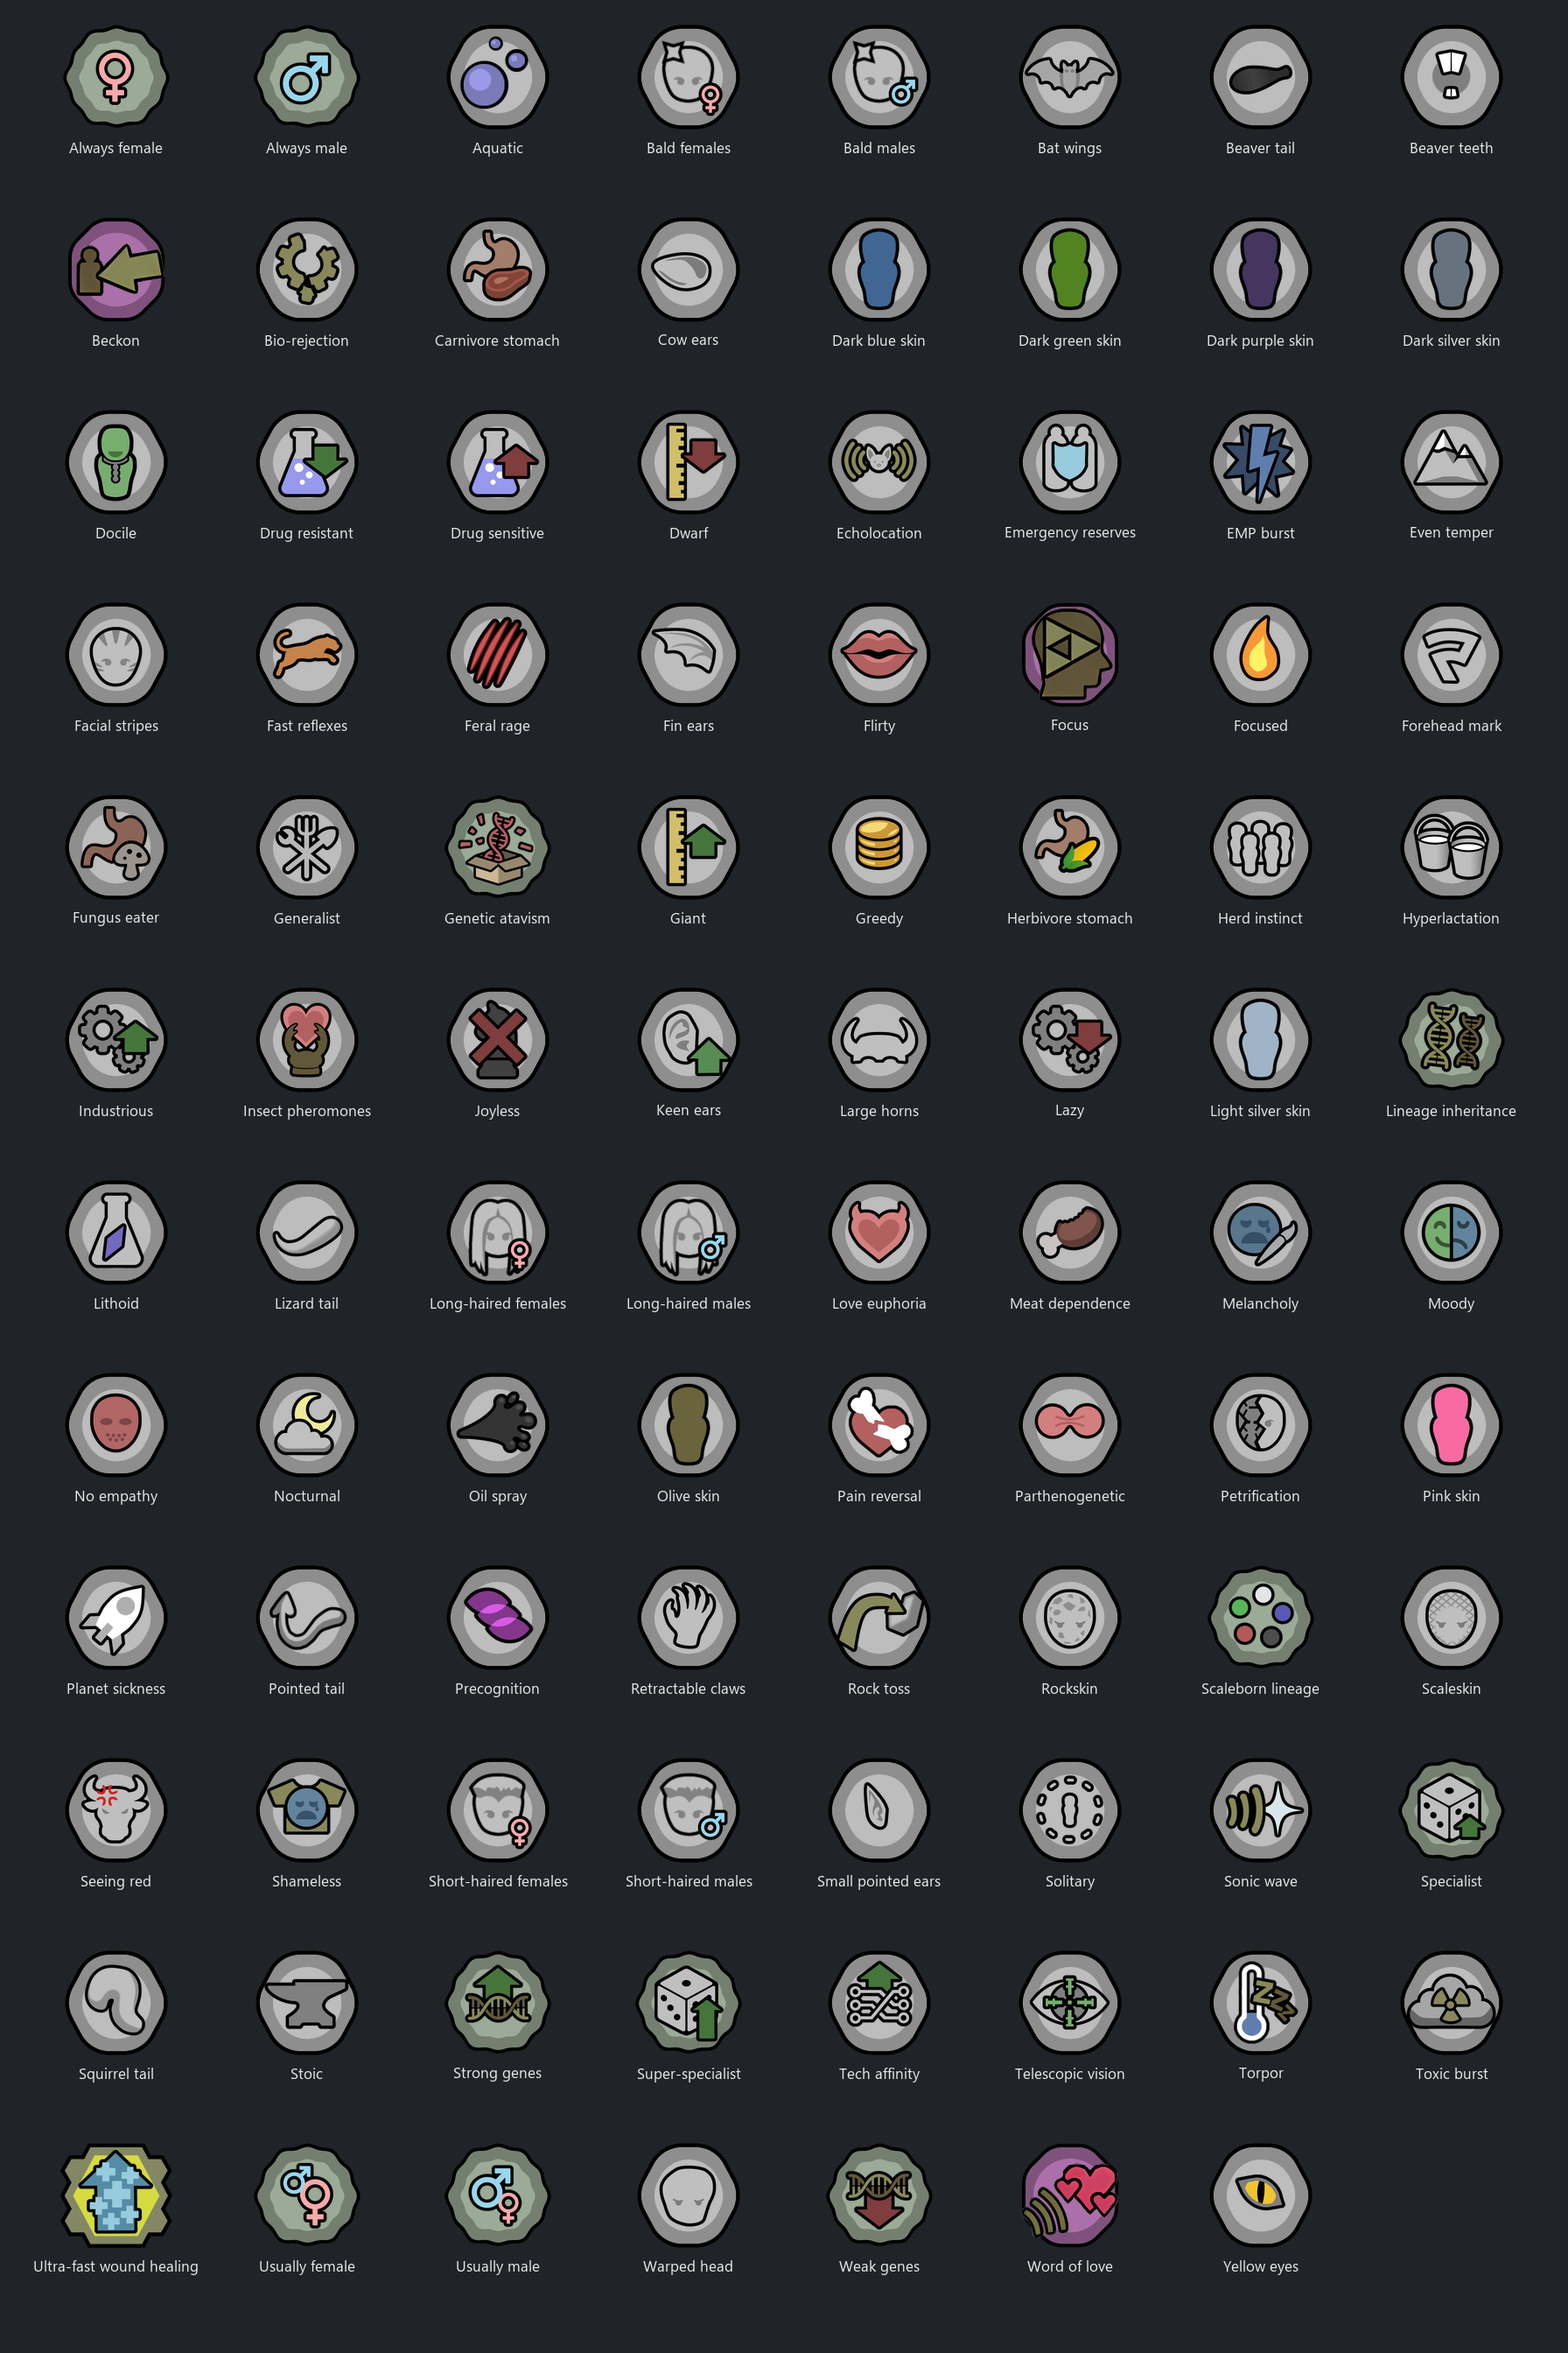
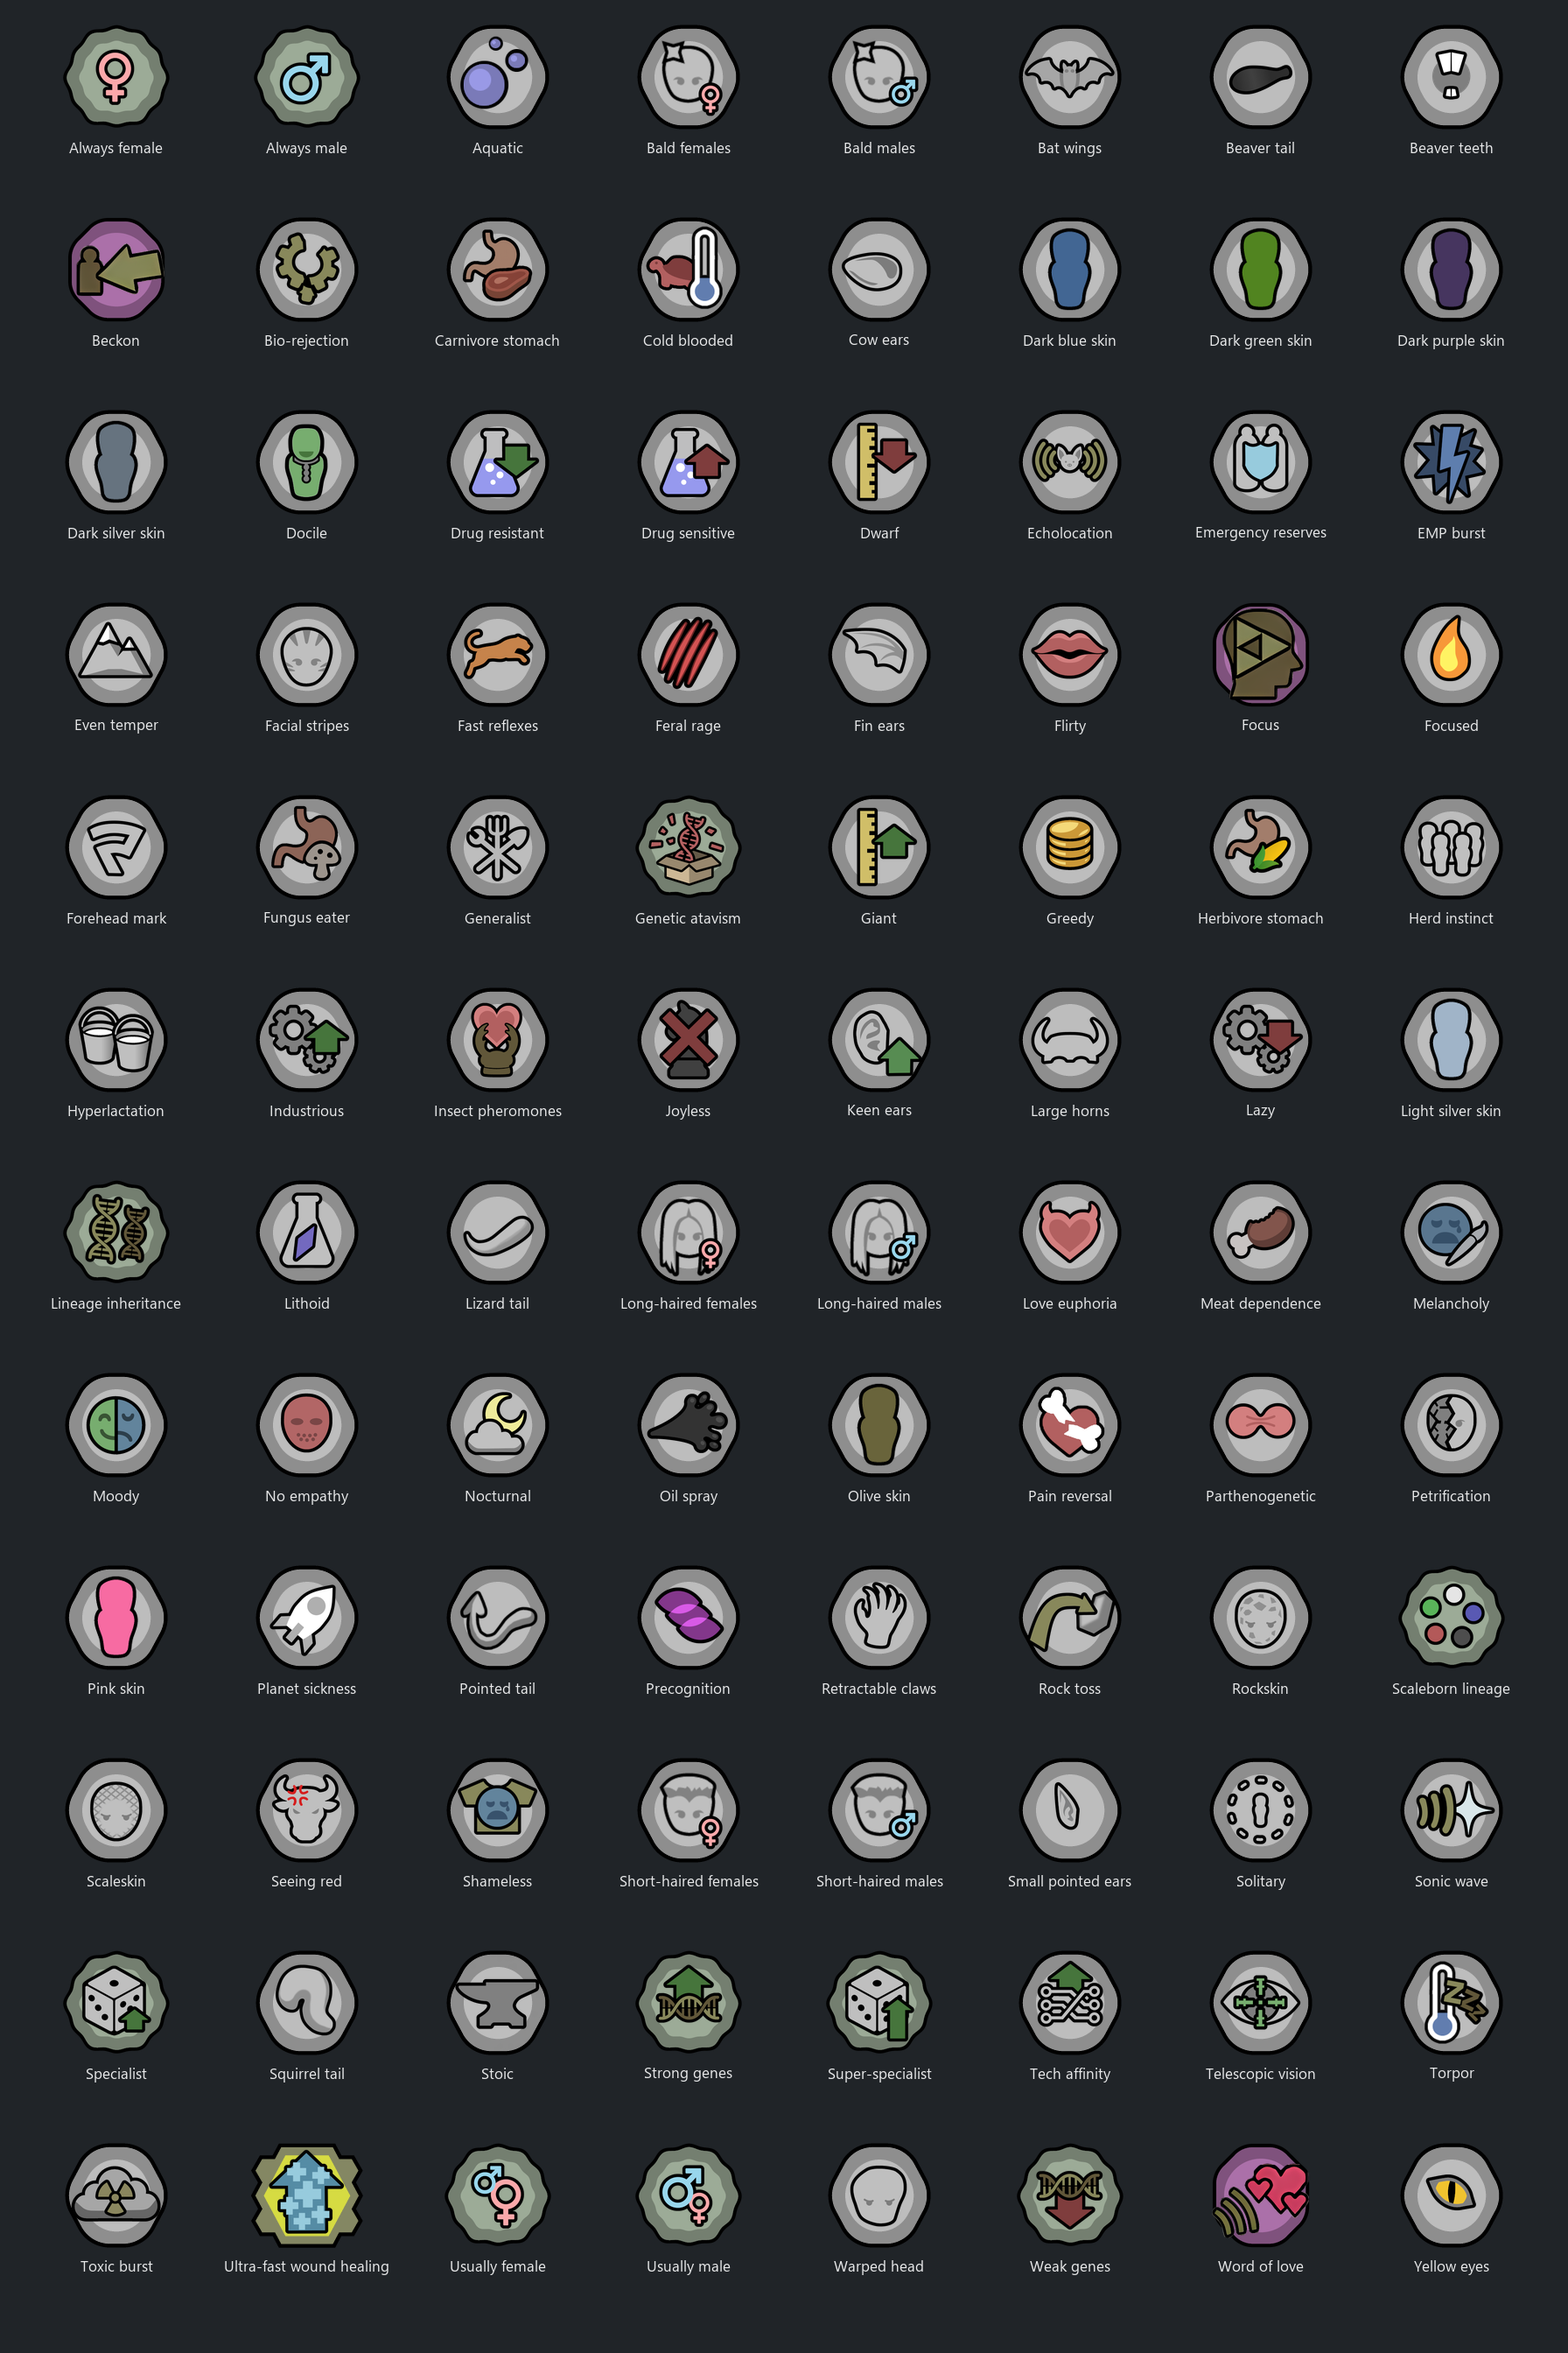
Update README.md

diff --git a/XylXenos/README.md b/XylXenos/README.md
@@ -378,11 +378,12 @@ On the dino-world Tyrantis V, scaleborn are the dominant predators, pursuing the
 | <img src="Docs/Images/Genes/Endo/XylLineageInheritance.png" alt="Lineage inheritance" width="80" height="80"> | <img src="Docs/Images/Complexity.png" alt="Complexity" width="24" height="24" align="absmiddle"> **1** | [Lineage inheritance](Data/Defs/GeneDefs/GeneDefs_Reproduction.xml) | When a carrier of this gene has a baby with a partner who also has this gene, the baby will inherit all of one parent's endogenes and none of the other's. |
 | <img src="Docs/Images/Genes/Endo/XylTail_Lizard.png" alt="Lizard tail" width="80" height="80"> | <img src="Docs/Images/Complexity.png" alt="Complexity" width="24" height="24" align="absmiddle"> **1** <br> <img src="Docs/Images/Metabolism.png" alt="Metabolism" width="24" height="24" align="absmiddle"> **-1** | [Lizard tail](Data/Defs/GeneDefs/GeneDefs_Tails.xml) | Carriers of this gene grow a long, heavy tail that improves balance and mobility. <br><sub>**Move speed** +0.08</sub>  |
 | <img src="Docs/Images/Genes/Endo/XylScaleskin.png" alt="Scaleskin" width="80" height="80"> | <img src="Docs/Images/Complexity.png" alt="Complexity" width="24" height="24" align="absmiddle"> **2** <br> <img src="Docs/Images/Metabolism.png" alt="Metabolism" width="24" height="24" align="absmiddle"> **-3** | [Scaleskin](Data/Defs/GeneDefs/GeneDefs_Body.xml) | Carriers of this gene grow tough but flexible scales all over their body that can deflect or absorb attacks. <br><sub>**Armor - Sharp** +40.0% &middot; **Armor - Blunt** +15.0%</sub> |
+| <img src="Docs/Images/Genes/Endo/XylMoveSpeed_Hot.png" alt="Cold blooded" width="80" height="80"> | <img src="Docs/Images/Complexity.png" alt="Complexity" width="24" height="24" align="absmiddle"> **1** <br> <img src="Docs/Images/Metabolism.png" alt="Metabolism" width="24" height="24" align="absmiddle"> **+2** | [Cold blooded](Data/Defs/GeneDefs/GeneDefs_Miscellaneous.xml) | Carriers of this gene move faster in hot temperatures but are slowed in cold temperatures. <br><sub>**Move speed** -0.40 (below 11C) &middot; **Global work speed** -20% (below 11C) &middot; **Move speed** +0.20 (above 31C) &middot; **Global work speed** +10% (above 31C)</sub> |
 | <img src="Docs/Images/Genes/Endo/XylScalebornLineage.png" alt="Scaleborn lineage" width="80" height="80"> | <img src="Docs/Images/Complexity.png" alt="Complexity" width="24" height="24" align="absmiddle"> **4** <br> <img src="Docs/Images/Metabolism.png" alt="Metabolism" width="24" height="24" align="absmiddle"> **-5** | [Scaleborn lineage](Data/Defs/GeneDefs/GeneDefs_BonusGenes.xml) | Replaces itself with one of five randomly selected gene packages representing five different lineages. |
 
 **Other genes and appearance**
 
-- **Traits:** slow runner, heat tolerant, aggressive, strong melee damage, sleepy.
+- **Traits:** heat tolerant, hyper-aggressive, strong melee damage, sleepy.
 - **Skills:** awful cooking.
 - **Appearance:** no hair, beardless, facial ridges.
 
